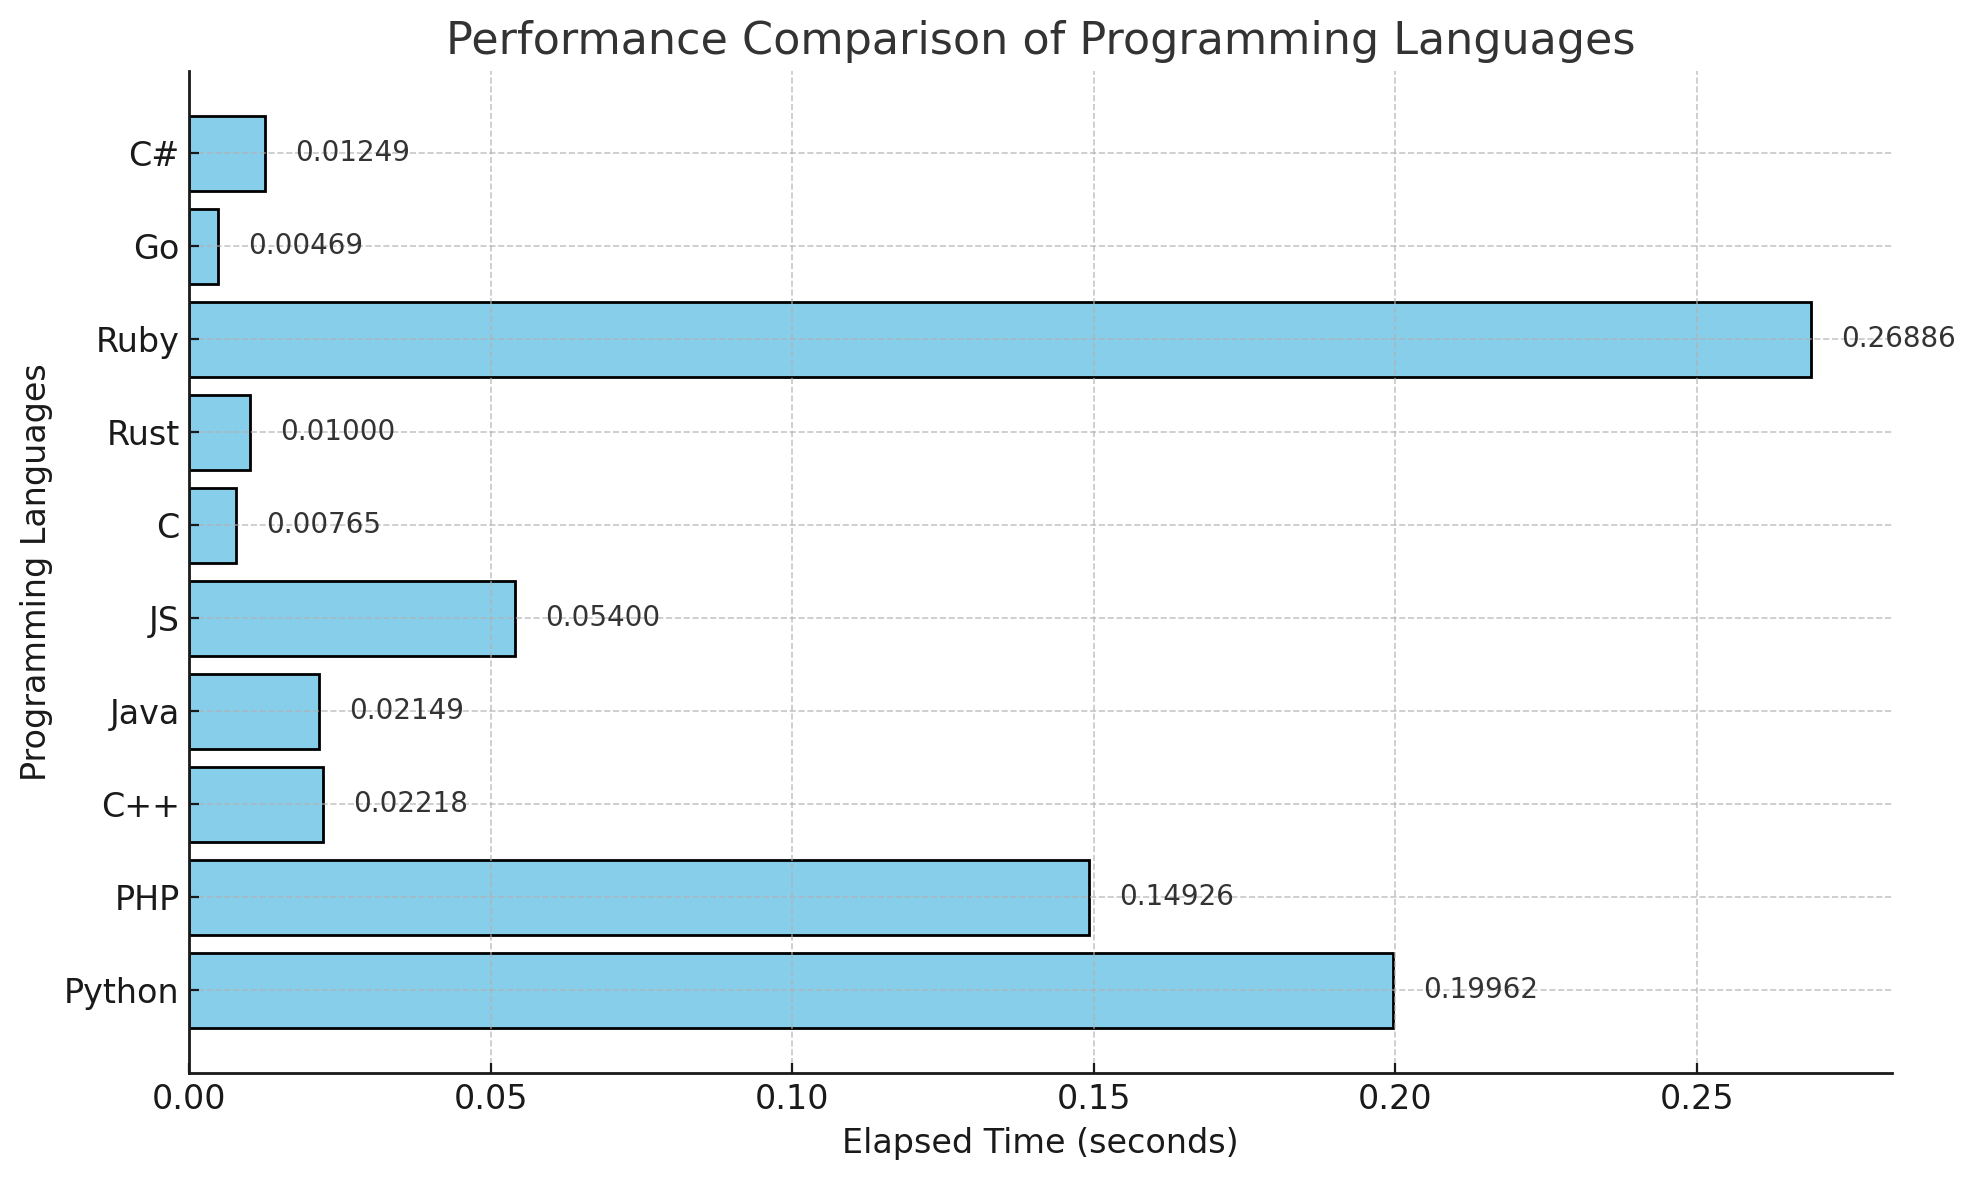
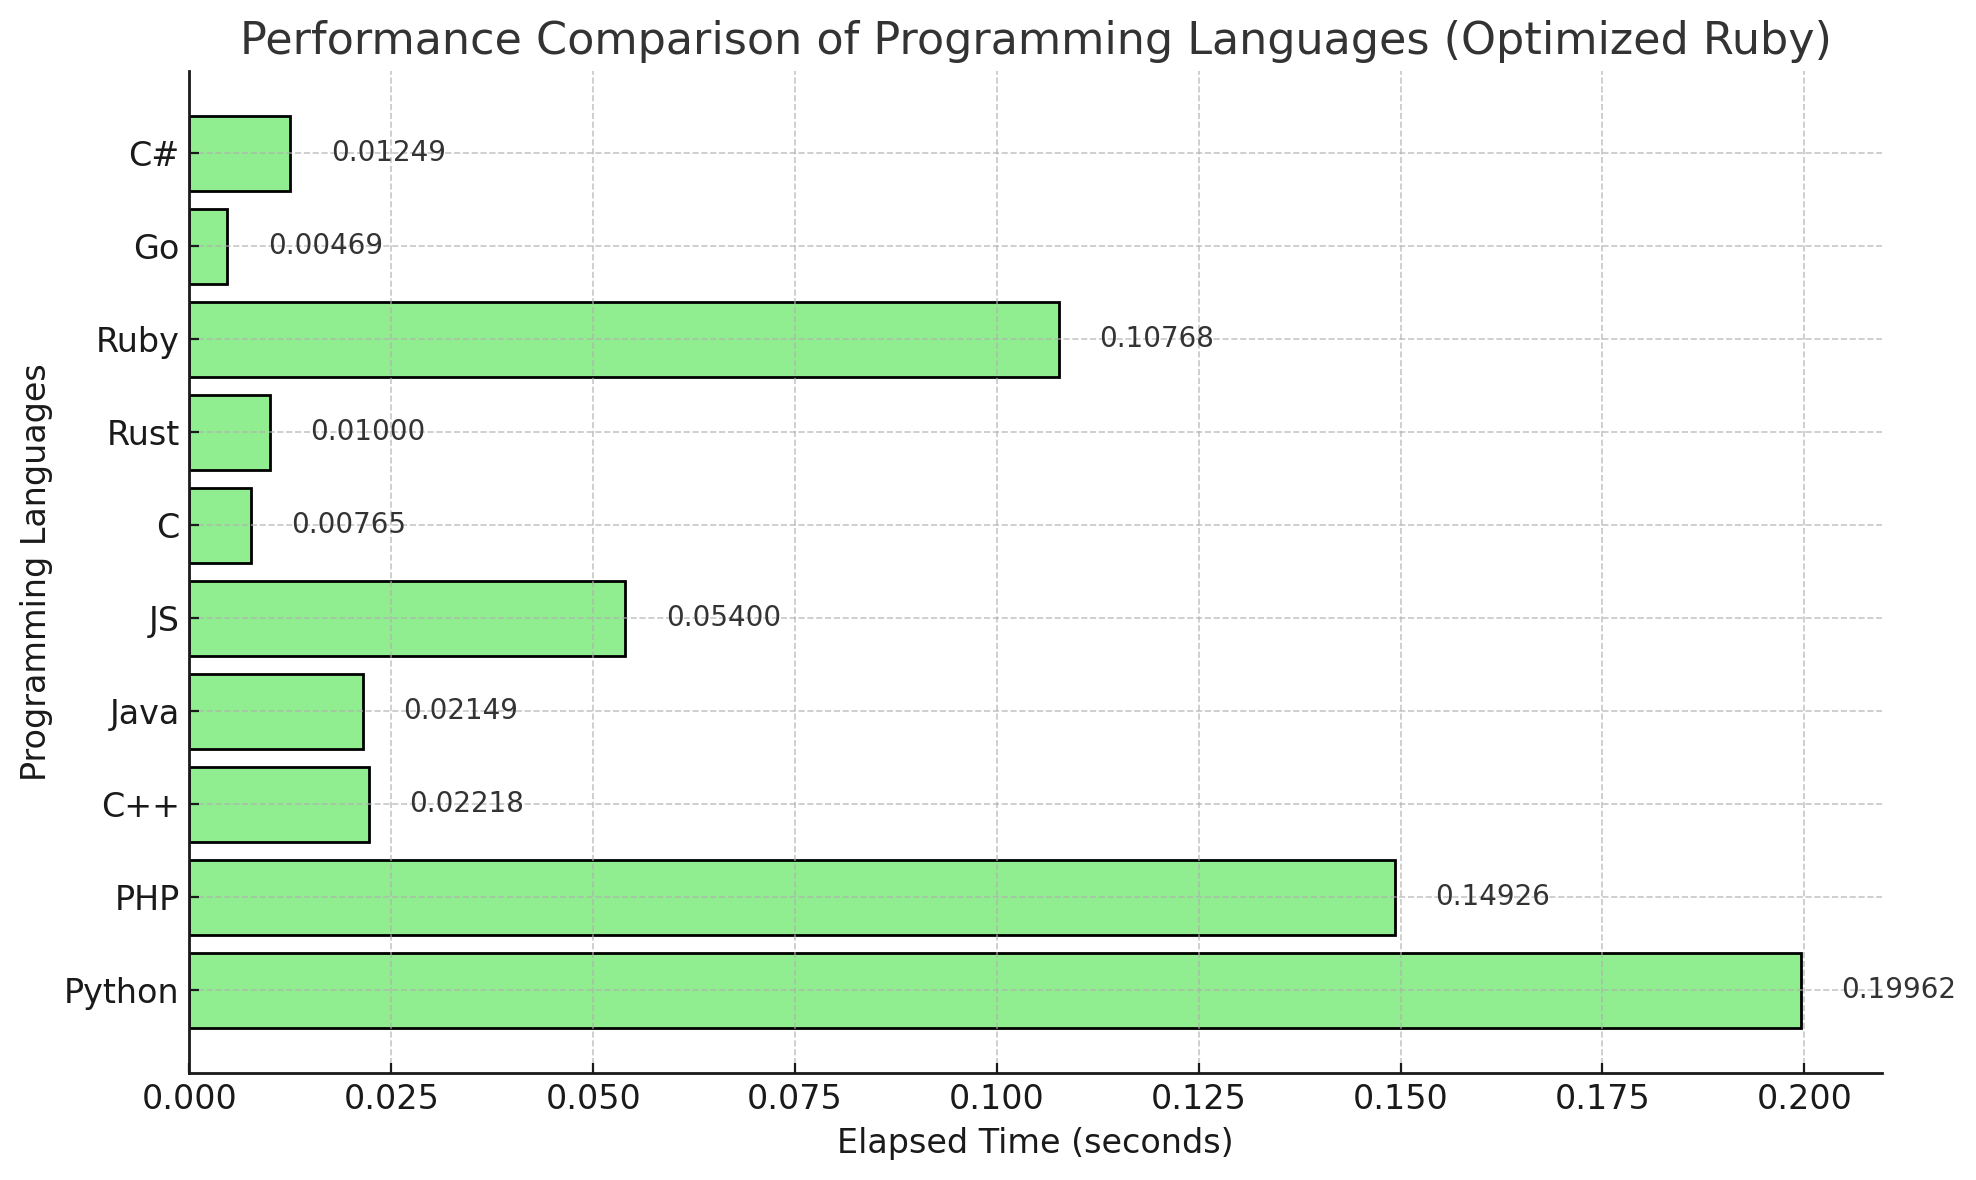
chore: optimized ruby code

diff --git a/rubyCode/sample.rb b/rubyCode/sample.rb
@@ -1,28 +1,28 @@
 # frozen_string_literal: true
 
-def fibonacci(num:, memo: {})
-  return num if num <= 1
-  return memo[num] if memo.key?(num)
+# frozen_string_literal: true
 
-  memo[num] = fibonacci(num: (num - 1), memo: memo) + fibonacci(num: (num - 2), memo: memo)
-  memo[num]
+require 'matrix'
+
+def fibonacci(num)
+  return num if num <= 1
+
+  fib = [0, 1]
+  (2..num).each do |i|
+    fib[i] = fib[i - 1] + fib[i - 2]
+  end
+  fib[num]
 end
 
 def matrix_multiply(a, b)
-  result = Array.new(a.length) { Array.new(b[0].length, 0) }
-  a.length.times do |i|
-    b[0].length.times do |j|
-      b.length.times do |k|
-        result[i][j] += a[i][k] * b[k][j]
-      end
-    end
-  end
-  result
+  a_matrix = Matrix[*a]
+  b_matrix = Matrix[*b]
+  (a_matrix * b_matrix).to_a
 end
 
 start_time = Time.now
 
-fibonacci(num: 1000, memo: {})
+fibonacci(1000)
 matrix_a = Array.new(100) { Array.new(100) { rand(100) } }
 matrix_b = Array.new(100) { Array.new(100) { rand(100) } }
 matrix_multiply(matrix_a, matrix_b)

diff --git a/README.md b/README.md
@@ -67,7 +67,7 @@ Elapsed time Java: 0.021486333 seconds
 Elapsed time JS: 0.054 seconds
 Elapsed time C: 0.007646 seconds
 Elapsed time Rust: 0.01 seconds
-Elapsed time Ruby: 0.268859 seconds
+Elapsed time Ruby: 0.107684 seconds
 Elapsed time Go: 0.004691 seconds
 Elapsed time C#: 0.0124871 seconds
 ```
